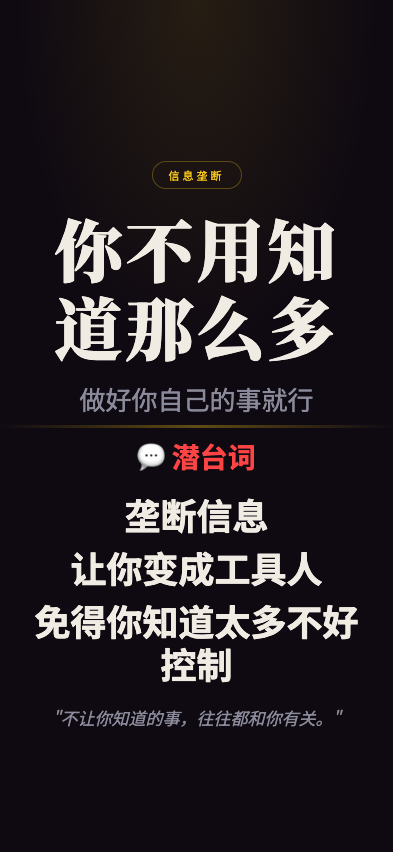
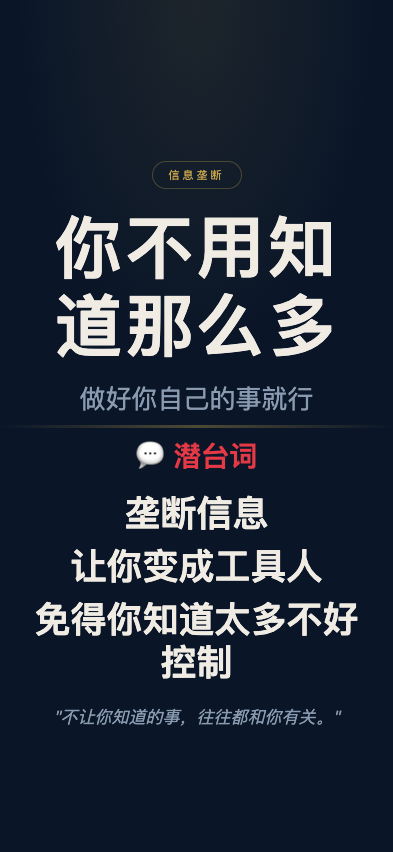
feat: 职场生存法则 screenshot - nibuyongzhidaonameduo

diff --git a/wuliao-tools/tools/biz-speak/scenes/nibuyongzhidaonameduo.html b/wuliao-tools/tools/biz-speak/scenes/nibuyongzhidaonameduo.html
@@ -7,11 +7,11 @@
 <link href="https://fonts.googleapis.com/css2?family=Noto+Serif+SC:wght@400;700;900&family=Noto+Sans+SC:wght@300;400;700&display=swap" rel="stylesheet">
 <style>
   :root {
-    --bg: #0f0a12;
+    --bg: #0a1628;
     --text: #f0ece4;
-    --text-dim: #8a8a9a;
-    --gold: #f5c518;
-    --red: #ff4444;
+    --text-dim: #8a9ab0;
+    --gold: #c9a84c;
+    --red: #e63946;
   }
   * { margin:0; padding:0; box-sizing:border-box; }
   html, body { width:100%; height:100%; overflow:hidden; }
@@ -24,11 +24,11 @@
   }
   body::before {
     content:''; position:absolute; top:0; left:0; right:0; height:45%;
-    background:radial-gradient(ellipse at 50% 0%, rgba(245,197,24,0.1) 0%, transparent 65%);
+    background:radial-gradient(ellipse at 50% 0%, rgba(201,168,76,0.1) 0%, transparent 65%);
     pointer-events:none; z-index:0;
   }
   .top { flex:1; display:flex; flex-direction:column; align-items:center; justify-content:flex-end; padding:4px 28px 8px; position:relative; z-index:1; }
-  .tag { font-size:11px; letter-spacing:3px; color:var(--gold); border:1px solid rgba(245,197,24,0.3); padding:5px 16px; border-radius:50px; margin-bottom:20px; }
+  .tag { font-size:11px; letter-spacing:3px; color:var(--gold); border:1px solid rgba(201,168,76,0.3); padding:5px 16px; border-radius:50px; margin-bottom:20px; }
   .main-title { font-family:'Noto Serif SC'; font-size:68px; font-weight:900; text-align:center; line-height:1.15; letter-spacing:3px; min-width:0; overflow-wrap:break-word; max-width:92%; }
   .sub-title { font-size:26px; color:var(--text-dim); text-align:center; margin-top:14px; }
   .divider { width:100%; height:3px; background:linear-gradient(90deg,transparent,var(--gold),transparent); opacity:0.35; flex-shrink:0; position:relative; z-index:1; }
@@ -39,7 +39,7 @@
   .quote { font-size:17px; color:var(--text-dim); font-style:italic; text-align:center; line-height:1.8; margin-top:18px; padding:0 12px; }
 </style>
 </head>
-<body>
+<body class="theme-1">
   <div class="top">
     <div class="tag">信息垄断</div>
     <div class="main-title">你不用知道那么多</div>
@@ -49,9 +49,7 @@
   <div class="bottom">
     <div class="truth-label">💬 潜台词</div>
     <div class="truth-lines">
-      <div class="truth-line">垄断信息</div>
-      <div class="truth-line">让你变成工具人</div>
-      <div class="truth-line">免得你知道太多不好控制</div>
+      <div class="truth-line">垄断信息</div><div class="truth-line">让你变成工具人</div><div class="truth-line">免得你知道太多不好控制</div>
     </div>
     <div class="quote">"不让你知道的事，往往都和你有关。"</div>
   </div>
